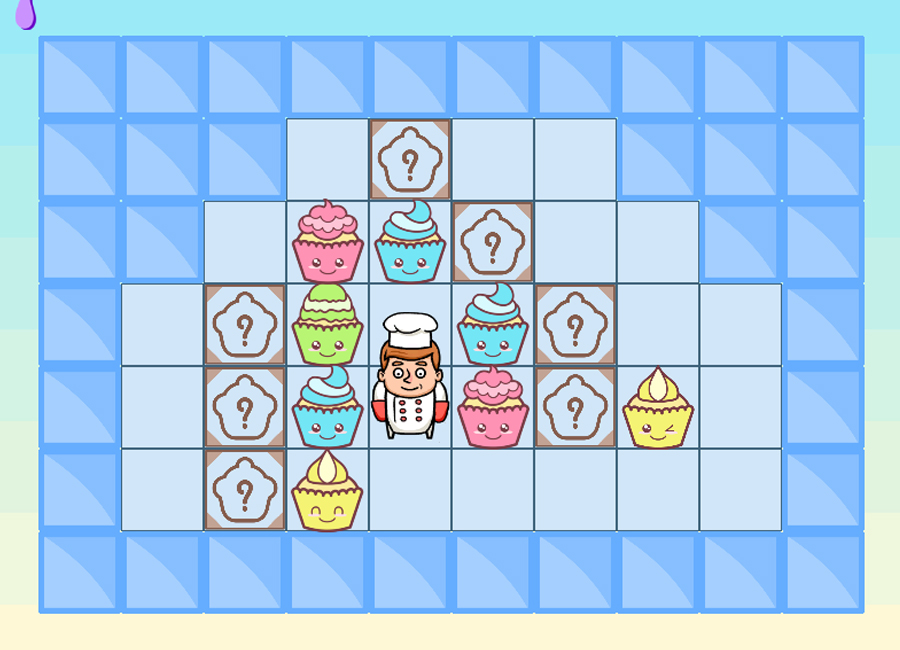
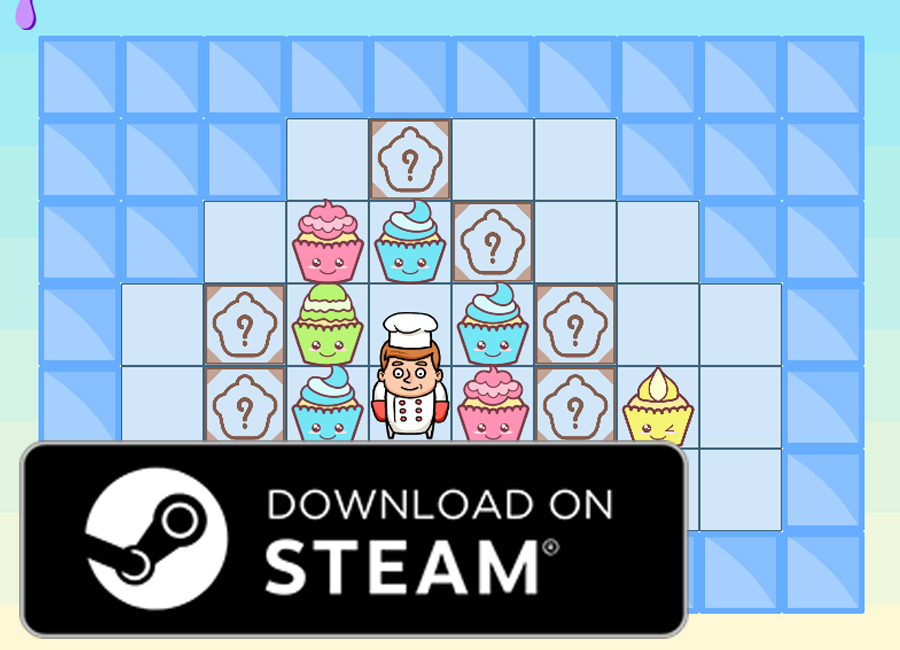
Add Steam

Changed region(s): [[0.0, 0.6769, 0.7778, 0.9846]]

diff --git a/index.html b/index.html
@@ -238,8 +238,12 @@
                                 </p>
 
                                 <p class="mb-4">
-                                    The game is in the final stages of development, with release scheduled for October
-                                    on Steam and and in the future for mobile devices (Android and IOS). </p>
+                                   The is available on Steam and can be accessed by clicking on the link below. </p>
+								   
+								   <p class="mb-4">
+                                      <a target="_blank" href="https://store.steampowered.com/app/1628930/Cupcake_Remember/?l=portuguese"><img class="img-fluid rounded mb-5" src="assets/img/btn/btnsteam.png"
+                                    alt="Steam"   width="350" height="135"/> </a></p>
+								 
 
 
                                 <p class="mb-4">
@@ -276,10 +280,6 @@
                                 <p class="mb-4">-For installation, just extract the contents of the .zip file to a
                                     folder of your choice and run the game.</p>
 
-
-                                <p class="mb-4"></p><a target="_blank" href="file/CupCakeRemember.zip">
-                                    <img alt="Qries" src="assets/img/btn/donwload.png" width="200" height="62">
-                                </a> </p>
 
 
                                 <button class="btn btn-primary" href="#!" data-bs-dismiss="modal">
